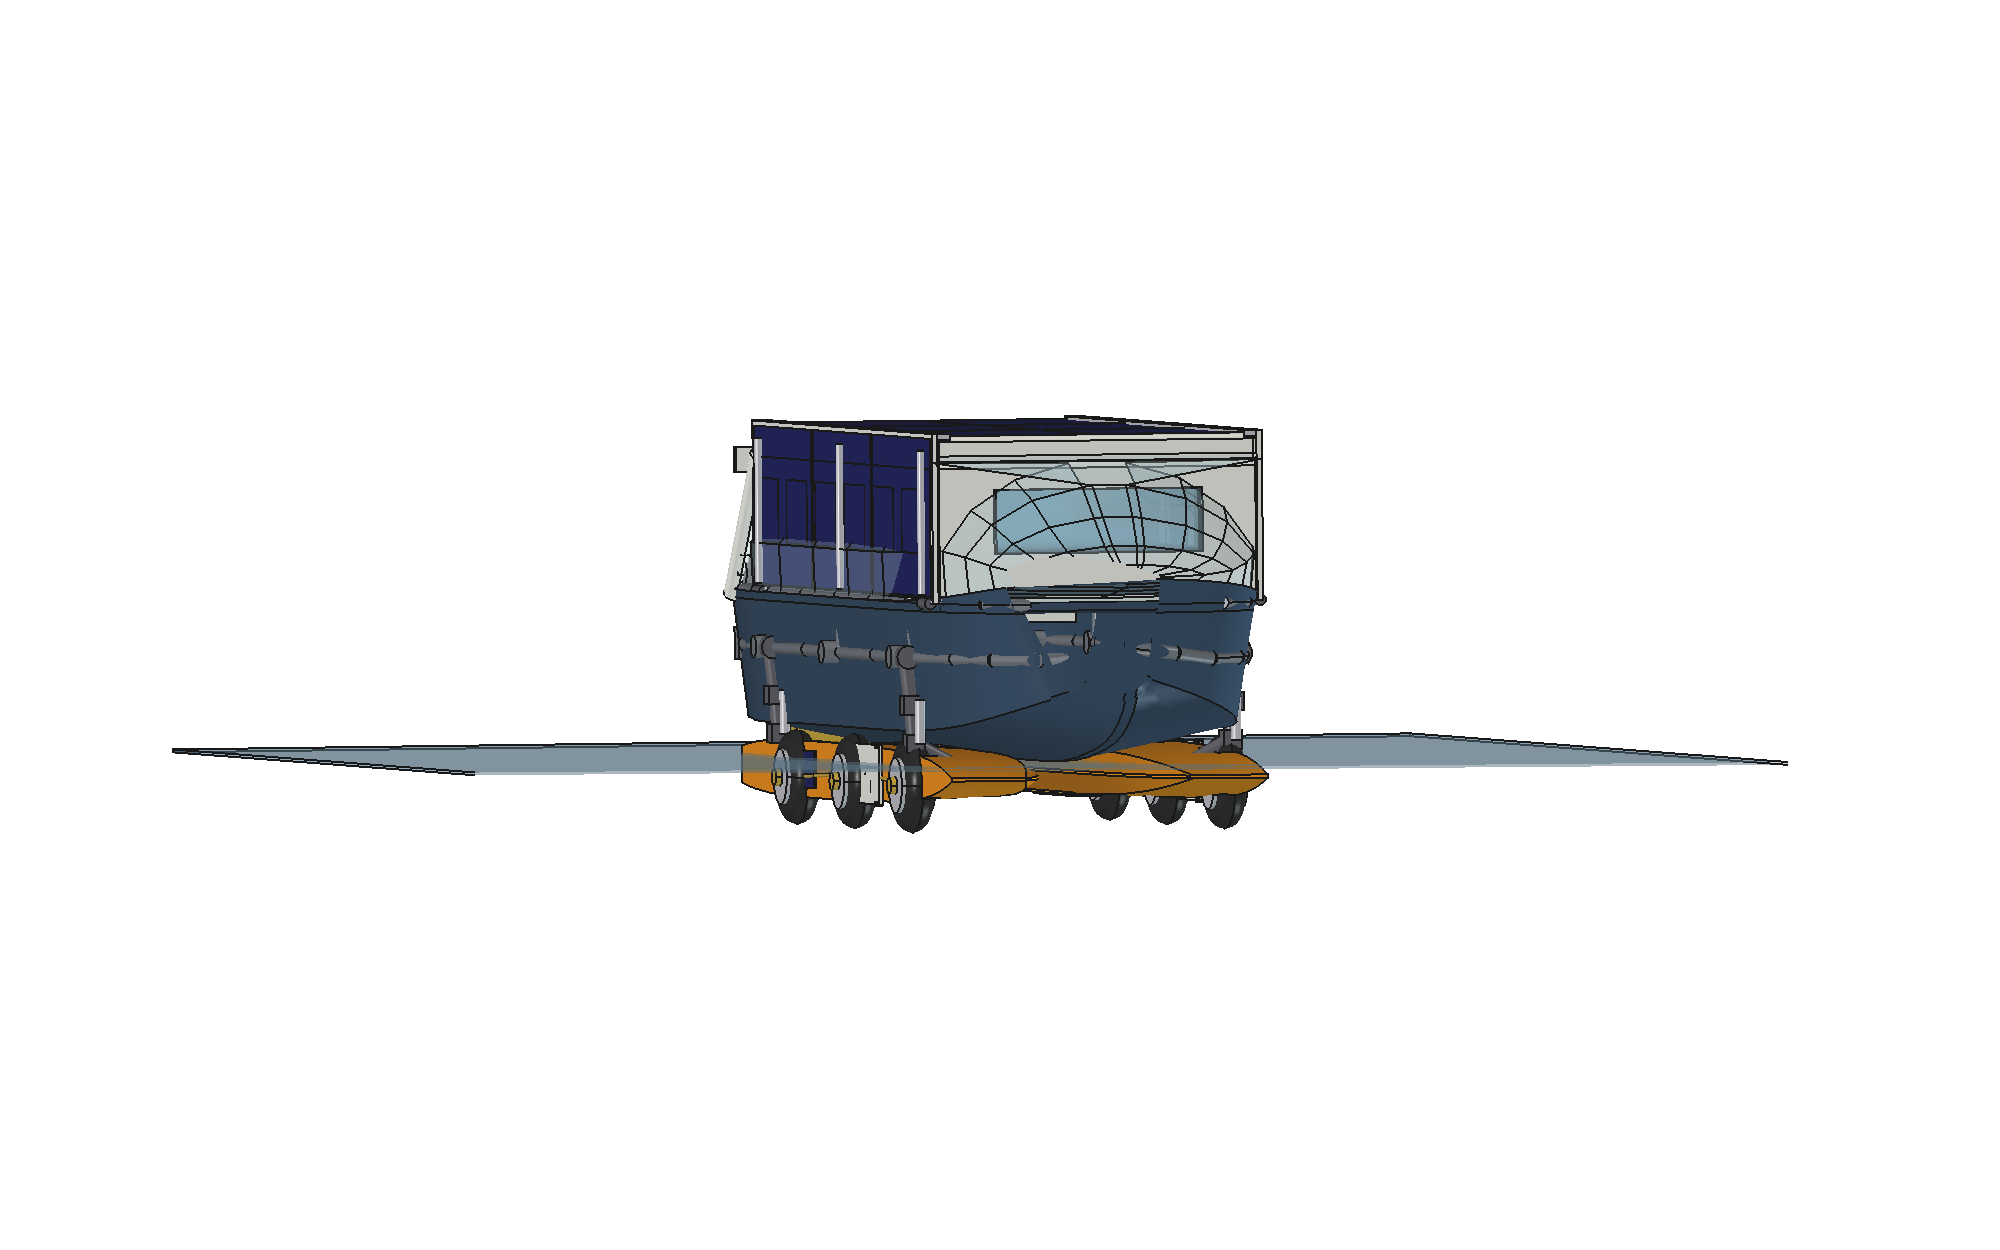
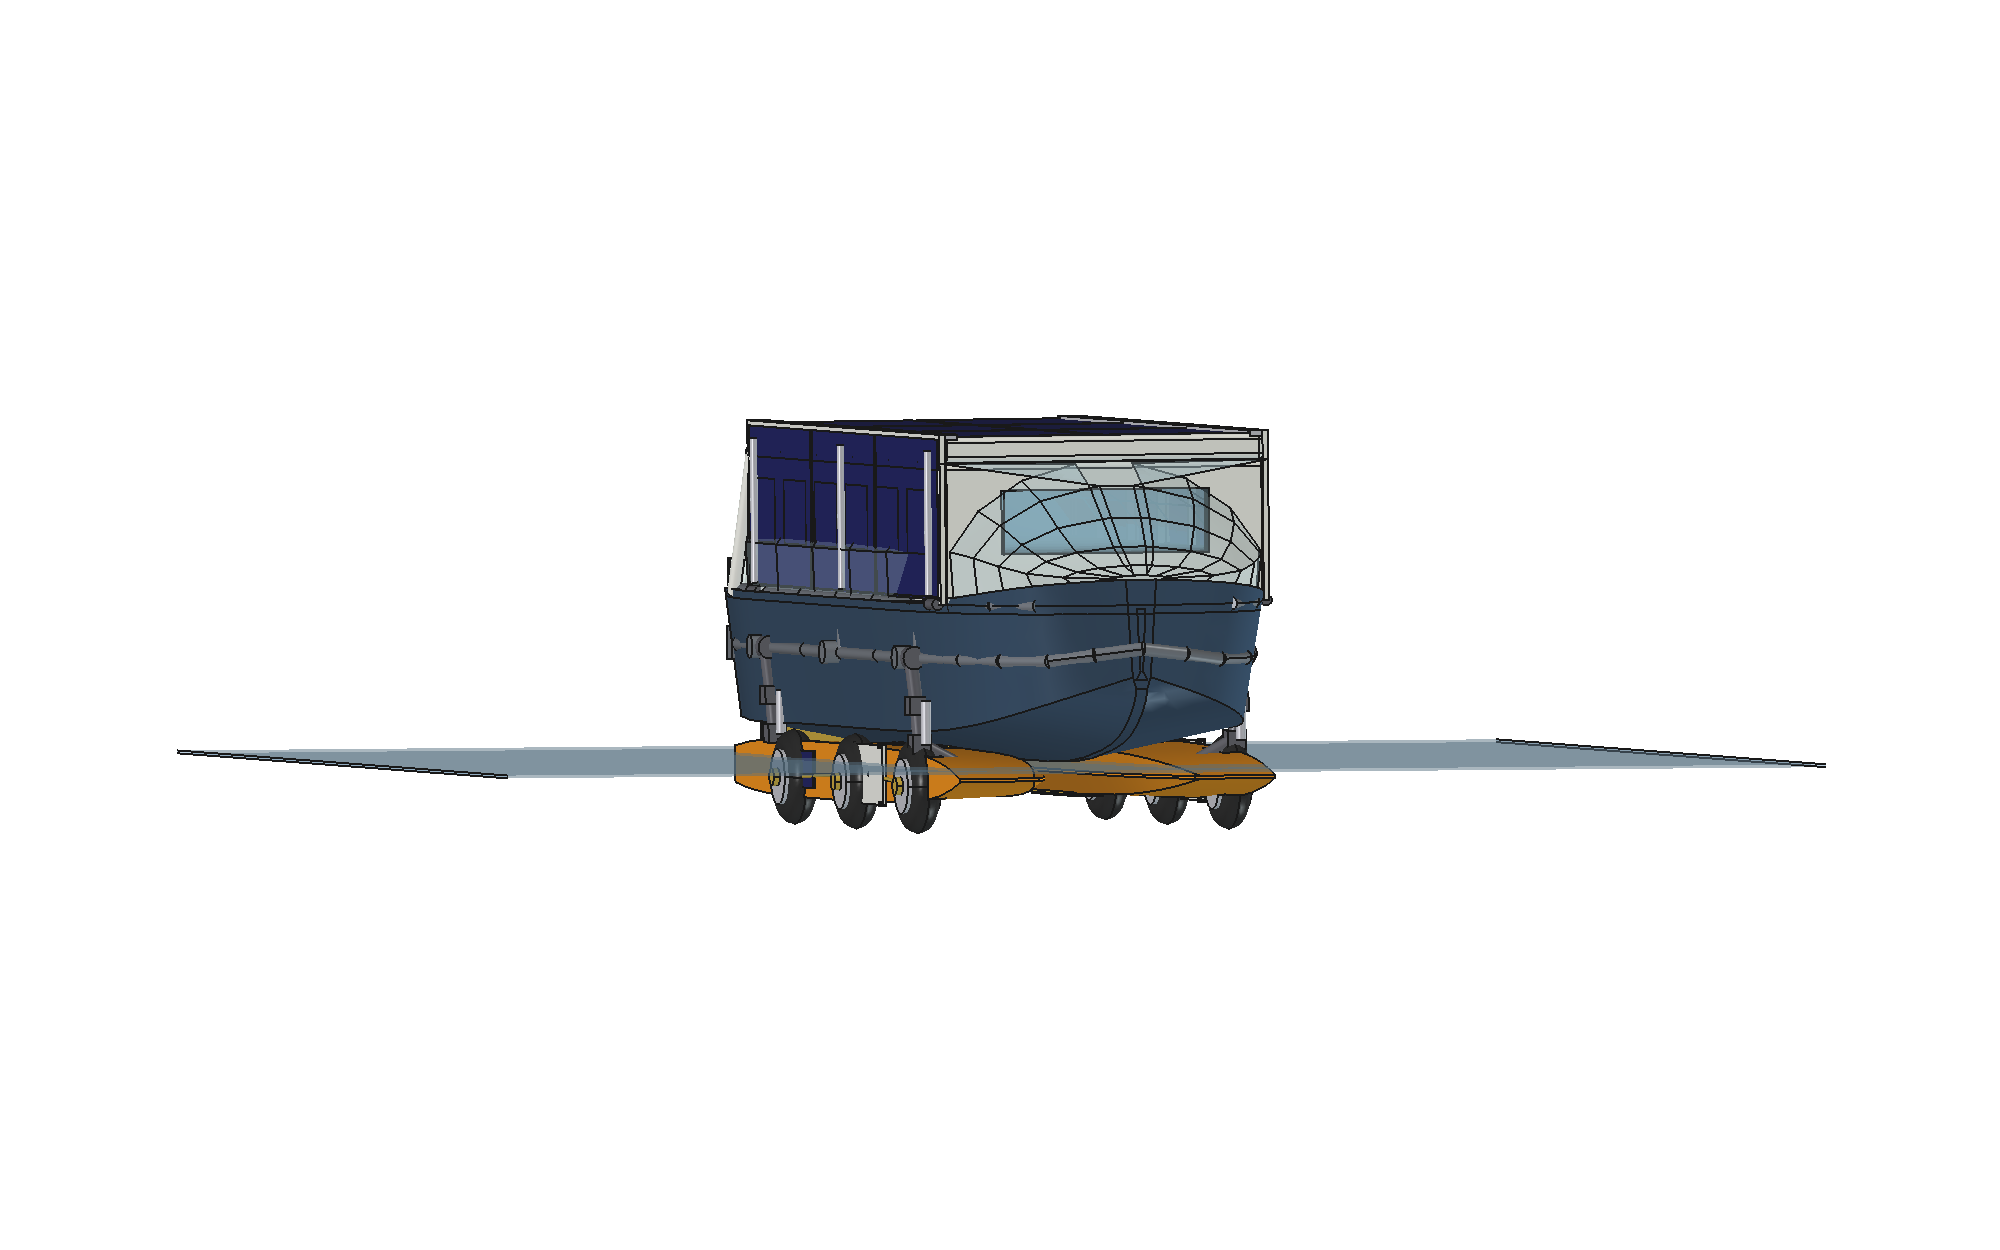
Aft entry reworked: deeper well, no posts, tighter ladder
1. Ladder steeper and against the wall: 67 deg in 420 mm of run
   instead of 54 deg in 720. Alternating treads (eight, swapping
   sides) make that angle walkable and free most of the aft deck.
2. Porch posts removed. The roof is cantilevered off the cabin wall on
   two diagonal tubes — nobody walks on it, so posts were only
   clutter.
3. Cockpit floor lowered 620 -> 400 mm. Clear height at the door goes
   1480 -> 1700 mm (no more ducking), and the bulwark round the well
   grows to 750 mm, which is the barrier that stops someone stepping
   off into the water. Still 140 mm above the waterline, so it
   gravity-drains. Door now 550-2100 on a 150 mm storm sill; asserts
   updated to enforce headroom, bulwark and freeboard.
4. Side benches added along the well: seats, and the step from the
   floor up to deck level and out through the boarding gates to the
   balconies.
5. Capture script now also shoots an aft view of every mode.

Changed region(s): [[0.093, 0.3432, 0.899, 0.6552]]

diff --git a/freecad/build_boat.py b/freecad/build_boat.py
@@ -545,25 +545,37 @@ def build_tow(pose):
 
 
 def build_aft_entry(rail_up=False):
-    """Companionway door, rain porch, stairs to the roof terrace, AC
-    ventilator box and cockpit lockers on the aft wall. The single
-    outboard handrail is raised only when the terrace is in use."""
+    """Deep self-draining cockpit with side benches, storm door with
+    1700 mm clear height, cantilevered rain porch (no deck posts —
+    diagonal tubes to the wall), alternating-tread ladder hard against
+    the aft wall, AC box and lockers. One folding outboard handrail."""
     parts, glass, dark = [], [], []
     x0, x1 = P.COCKPIT_X0, P.COCKPIT_X1
-    # --- porch roof (top flush with the terrace) + posts + flashing
-    porch = box(P.PORCH_X1 - P.PORCH_X0, 2 * P.PORCH_HW, P.PORCH_T,
-                (P.PORCH_X0, -P.PORCH_HW, P.CABIN_ROOF_Z - P.PORCH_T))
-    porch = porch.cut(box(P.STAIR_X1 - 150, P.STAIR_Y1 - P.STAIR_Y0 + 120,
-                          400, (200, P.STAIR_Y0 - 60,
-                                P.CABIN_ROOF_Z - P.PORCH_T - 100)))
-    parts.append(porch)
+
+    # --- side benches: seats, and the step from the well up to the deck
     for sgn in (-1, 1):
-        parts.append(rod((x0 + 60, sgn * P.PORCH_POST_Y, DECK_Z),
-                         (x0 + 60, sgn * P.PORCH_POST_Y,
-                          P.CABIN_ROOF_Z - P.PORCH_T), 90))
-    parts.append(box(P.CABIN_X0 - P.PORCH_X1 + 40, 2 * P.PORCH_HW, 60,
-                     (P.PORCH_X1 - 20, -P.PORCH_HW,
-                      P.CABIN_ROOF_Z - P.PORCH_T - 30)))     # flashing
+        parts.append(box(x1 - x0 - 120, P.BENCH_DEPTH, 60,
+                         (x0 + 60, sgn * P.COCKPIT_HW - (P.BENCH_DEPTH
+                                                         if sgn > 0 else 0),
+                          P.BENCH_Z - 60)))
+        parts.append(box(x1 - x0 - 120, 50, P.BENCH_Z - P.COCKPIT_FLOOR,
+                         (x0 + 60,
+                          sgn * (P.COCKPIT_HW - P.BENCH_DEPTH) - (50 if sgn > 0
+                                                                  else 0),
+                          P.COCKPIT_FLOOR)))
+
+    # --- cantilevered porch: no posts, two diagonal tubes to the wall
+    parts.append(box(P.PORCH_X1 - P.PORCH_X0, 2 * P.PORCH_HW, P.PORCH_T,
+                     (P.PORCH_X0, -P.PORCH_HW,
+                      P.CABIN_ROOF_Z - P.PORCH_T)))
+    for sgn in (-1, 1):
+        parts.append(rod((P.PORCH_X0 + 90, sgn * P.PORCH_STRUT_Y,
+                          P.CABIN_ROOF_Z - P.PORCH_T),
+                         (P.CABIN_X0 - 20, sgn * P.PORCH_STRUT_Y, 1430), 85))
+    parts.append(box(P.CABIN_X0 - P.PORCH_X1 + 60, 2 * P.PORCH_HW, 60,
+                     (P.PORCH_X1 - 30, -P.PORCH_HW,
+                      P.CABIN_ROOF_Z - P.PORCH_T - 30)))        # flashing
+
     # --- companionway: storm sill, frame, gasketed door leaf
     parts.append(box(180, 2 * P.DOOR_HW + 160, P.DOOR_Z0 - P.COCKPIT_FLOOR,
                      (x1 - 90, -P.DOOR_HW - 80, P.COCKPIT_FLOOR)))
@@ -572,49 +584,47 @@ def build_aft_entry(rail_up=False):
                          (x1 - 75, sgn * P.DOOR_HW - 35, P.DOOR_Z0)))
     parts.append(box(150, 2 * P.DOOR_HW + 70, 70,
                      (x1 - 75, -P.DOOR_HW - 35, P.DOOR_Z1 - 35)))
-    leaf = box(50, 2 * P.DOOR_HW - 40, P.DOOR_Z1 - P.DOOR_Z0 - 60,
-               (x1 - 25, -P.DOOR_HW + 20, P.DOOR_Z0 + 30))
-    dark.append(leaf)
-    glass.append(box(20, 2 * P.DOOR_HW - 300, 620,
-                     (x1 - 40, -P.DOOR_HW + 150, P.DOOR_Z0 + 520)))
-    for dz in (0, 620):                                       # dogs
+    dark.append(box(50, 2 * P.DOOR_HW - 40, P.DOOR_Z1 - P.DOOR_Z0 - 60,
+                    (x1 - 25, -P.DOOR_HW + 20, P.DOOR_Z0 + 30)))
+    glass.append(box(20, 2 * P.DOOR_HW - 300, 800,
+                     (x1 - 40, -P.DOOR_HW + 150, P.DOOR_Z0 + 620)))
+    for dz in (0, 700):                                          # dogs
         for sgn in (-1, 1):
             parts.append(Part.makeCylinder(
                 26, 90, Vector(x1 - 40, sgn * (P.DOOR_HW - 60),
-                               P.DOOR_Z0 + 300 + dz), Vector(-1, 0, 0)))
-    # --- ship's ladder to the roof terrace, port side of the door.
-    # A 2.15 m roof off a 1.15 m deck in 720 mm of run is a ladder, not
-    # a staircase — so it is detailed as one: stringers on edge, nosed
-    # treads let into them, handrails both sides (the inboard side
-    # overlooks the footwell) returning onto the terrace as grab rails.
+                               P.DOOR_Z0 + 320 + dz), Vector(-1, 0, 0)))
+
+    # --- alternating-tread ladder, hard against the aft wall (67 deg).
+    # Alternating treads are what make this angle walkable in 420 mm of
+    # run; a normal stair would need three times the floor space.
     n, sx0, sx1 = P.STAIR_STEPS, P.STAIR_X0, P.STAIR_X1
     z0, z1 = DECK_Z, P.CABIN_ROOF_Z
     rise, going = (z1 - z0) / n, (sx1 - sx0) / n
-    for sy in (P.STAIR_Y0 + 55, P.STAIR_Y1 - 55):          # stringers
-        parts.append(rod((sx0 - 60, sy, z0 - 40), (sx1 + 40, sy, z1 - 40),
-                         150))
-    for i in range(n):                                      # nosed treads
+    ymid = (P.STAIR_Y0 + P.STAIR_Y1) / 2
+    for sy in (P.STAIR_Y0 + 50, P.STAIR_Y1 - 50):                # stringers
+        parts.append(rod((sx0 - 70, sy, z0 - 30), (sx1 + 50, sy, z1 - 30),
+                         140))
+    for i in range(n):
         tz = z0 + (i + 1) * rise
         tx = sx0 + i * going
-        parts.append(box(going + 55, P.STAIR_Y1 - P.STAIR_Y0 - 60, 42,
-                         (tx, P.STAIR_Y0 + 30, tz - 42)))
-        parts.append(rod((tx, P.STAIR_Y0 + 30, tz - 21),
-                         (tx, P.STAIR_Y1 - 30, tz - 21), 42))
-    # ONE folding handrail, on the OUTBOARD side only. It is needed
-    # solely when the roof terrace is in use, so it folds flat onto the
-    # stringer the rest of the time and takes no space.
+        y_lo = P.STAIR_Y0 + 40 if i % 2 else ymid
+        parts.append(box(250, (P.STAIR_Y1 - P.STAIR_Y0) / 2 - 40, 40,
+                         (tx - 95, y_lo, tz - 40)))
+        parts.append(rod((tx - 95, y_lo, tz - 20),
+                         (tx - 95, y_lo + (P.STAIR_Y1 - P.STAIR_Y0) / 2 - 40,
+                          tz - 20), 40))
+
+    # ONE folding handrail, outboard side only: up only when the roof
+    # terrace is in use, folded flat on the stringer otherwise.
     ry = P.STAIR_Y0 + 45
     if rail_up:
         parts.append(rod((sx0, ry, z0), (sx0, ry, z0 + 950), 60))
         parts.append(rod((sx1, ry, z1), (sx1, ry, z1 + 950), 60))
         parts.append(rod((sx0, ry, z0 + 950), (sx1, ry, z1 + 950), 55))
-        parts.append(rod((sx1, ry, z1 + 950),
-                         (sx1 + 420, ry, z1 + 950), 55))      # terrace grab
-        parts.append(rod((sx1 + 420, ry, z1 + 950),
-                         (sx1 + 420, ry, z1), 55))
-    else:                                    # folded flat along the ladder
-        parts.append(rod((sx0 - 40, ry, z0 + 90), (sx1 + 30, ry, z1 + 90),
-                         55))
+        parts.append(rod((sx1, ry, z1 + 950), (sx1 + 420, ry, z1 + 950), 55))
+        parts.append(rod((sx1 + 420, ry, z1 + 950), (sx1 + 420, ry, z1), 55))
+    else:
+        parts.append(rod((sx0 - 40, ry, z0 + 90), (sx1 + 30, ry, z1 + 90), 55))
         for px in (sx0, sx1):
             pz = z0 + (px - sx0) / (sx1 - sx0) * (z1 - z0)
             parts.append(rod((px, ry, pz), (px, ry, pz + 110), 60))
@@ -622,19 +632,20 @@ def build_aft_entry(rail_up=False):
     # --- AC ventilator box (upper right) and lockers (rest of the wall)
     dark.append(box(P.AC_DEPTH, P.AC_Y1 - P.AC_Y0, P.AC_Z1 - P.AC_Z0,
                     (x1 - P.AC_DEPTH, P.AC_Y0, P.AC_Z0)))
-    for i in range(5):                                        # louvres
+    for i in range(5):
         parts.append(box(30, P.AC_Y1 - P.AC_Y0 - 80, 26,
                          (x1 - P.AC_DEPTH - 15, P.AC_Y0 + 40,
                           P.AC_Z0 + 50 + i * 58)))
     parts.append(box(P.LOCKER_DEPTH, P.LOCKER_Y1 - P.LOCKER_Y0,
                      P.LOCKER_Z1 - P.LOCKER_Z0,
                      (x1 - P.LOCKER_DEPTH, P.LOCKER_Y0, P.LOCKER_Z0)))
-    for i in range(2):                                        # locker doors
+    for i in range(2):
         dark.append(box(24, (P.LOCKER_Y1 - P.LOCKER_Y0) / 2 - 30,
                         P.LOCKER_Z1 - P.LOCKER_Z0 - 60,
                         (x1 - P.LOCKER_DEPTH - 20,
                          P.LOCKER_Y0 + 15 + i * (P.LOCKER_Y1 - P.LOCKER_Y0) / 2,
                          P.LOCKER_Z0 + 30)))
+
     # --- boarding steps out to the solar balconies, both sides
     for sgn in (-1, 1):
         parts.append(box(P.GATE_X1 - P.GATE_X0, 200, 50,

diff --git a/freecad/params.py b/freecad/params.py
@@ -236,24 +236,30 @@ COUPLING_H = 430              # target coupling height above ground
 # deck, and are entered through boarding gates in the sheer rail.
 COCKPIT_X0, COCKPIT_X1 = 150, 900
 COCKPIT_HW = 700              # footwell half width
-COCKPIT_FLOOR = 620           # 360 mm above WL -> drains overboard
+COCKPIT_FLOOR = 400           # deep well: 1700 mm clear at the door, no
+                              # ducking; 750 mm bulwark all round as the
+                              # fall barrier; still 140 mm above WL so it
+                              # gravity-drains through the transom
 COCKPIT_WALL = 40
+BENCH_Z = 850                 # side benches: seat, and the step up to deck
+BENCH_DEPTH = 400
 DOOR_HW = 350
-DOOR_Z0, DOOR_Z1 = 800, 2100  # sill 180 above the footwell floor
-PORCH_X0, PORCH_X1 = 150, 820 # stops short of the wall; flashing seals
-PORCH_HW = 1150
-PORCH_T = 180                 # top flush with the roof terrace
-PORCH_POST_Y = 640
-STAIR_Y0, STAIR_Y1 = -1200, -720   # port strip, to the LEFT of the door
-STAIR_X0, STAIR_X1 = 160, 880   # longest run the aft deck allows
-STAIR_STEPS = 7
+DOOR_Z0, DOOR_Z1 = 550, 2100  # 150 sill; 1700 mm clear above the floor
+PORCH_X0, PORCH_X1 = 120, 820 # cantilevered, flashing seals it to the wall
+PORCH_HW = 700                # narrow: covers the well, clears the ladder
+PORCH_T = 180
+PORCH_STRUT_Y = 620           # diagonal tubes to the wall — no deck posts
+# alternating-tread ladder, hard against the aft wall to save floor space
+STAIR_Y0, STAIR_Y1 = -1200, -740   # port strip, to the LEFT of the door
+STAIR_X0, STAIR_X1 = 460, 880
+STAIR_STEPS = 8
 GATE_X0, GATE_X1 = 950, 1450   # sheer-rail gap: step out to the balconies
 # aft wall fit-out, seen from the cockpit: AC upper right, lockers below
 AC_Y0, AC_Y1 = 600, 1140
 AC_Z0, AC_Z1 = 1760, 2100
 AC_DEPTH = 340
 LOCKER_Y0, LOCKER_Y1 = 430, 1140
-LOCKER_Z0, LOCKER_Z1 = 900, 1700
+LOCKER_Z0, LOCKER_Z1 = 950, 1720
 LOCKER_DEPTH = 300
 
 # ---- stern gear: electric winch + anchor ----
@@ -397,10 +403,13 @@ def checks(verbose=True):
     # aft entry
     stair_ang = math.degrees(math.atan2(CABIN_ROOF_Z - CABIN_BASE_Z,
                                         STAIR_X1 - STAIR_X0))
-    assert COCKPIT_FLOOR >= WL_Z + 250, \
+    assert COCKPIT_FLOOR >= WL_Z + 120, \
         f"cockpit floor only {COCKPIT_FLOOR - WL_Z} mm above WL"
-    assert DOOR_Z0 - COCKPIT_FLOOR >= 150, "storm sill too low"
-    assert stair_ang <= 65, f"stairs {stair_ang:.0f} deg too steep"
+    assert DOOR_Z0 - COCKPIT_FLOOR >= 140, "storm sill too low"
+    assert DOOR_Z1 - COCKPIT_FLOOR >= 1650, \
+        f"only {DOOR_Z1 - COCKPIT_FLOOR} mm clear at the door — you would duck"
+    assert CABIN_BASE_Z - COCKPIT_FLOOR >= 600, "bulwark too low to stop a fall"
+    assert stair_ang <= 70, f"ladder {stair_ang:.0f} deg too steep"
     assert PORCH_X1 < CABIN_X0, "porch must clear the cabin wall for flashing"
     # jack-up stance equilibrium
     jack_d = FLOAT_W * BOAT_MASS / (2 * reserve_kg)      # submerged depth
@@ -438,9 +447,9 @@ def checks(verbose=True):
               f"{sea_z - WL_Z:.0f} above WL")
         print(f"stern tow       coupling {cpl_h:.0f} mm high, overhang aft "
               f"{-cpl_x:.0f} mm, tongue load {tongue:+.0f} kg")
-        print(f"aft entry       cockpit floor {COCKPIT_FLOOR - WL_Z:.0f} above WL, "
-              f"door {DOOR_Z1 - DOOR_Z0} tall over a {DOOR_Z0 - COCKPIT_FLOOR} sill, "
-              f"stairs {stair_ang:.0f} deg")
+        print(f"aft entry       {DOOR_Z1 - COCKPIT_FLOOR} mm clear at the door, "
+              f"bulwark {CABIN_BASE_Z - COCKPIT_FLOOR}, "
+              f"floor {COCKPIT_FLOOR - WL_Z} above WL, ladder {stair_ang:.0f} deg")
         print(f"jack-up stance  floats {jack_frac * 100:.0f}% deep, "
               f"keel {-harbor_wl:.0f} mm above water (awash), "
               f"pontoon GM ~{gm_est:.1f} m")

diff --git a/freecad/capture.py b/freecad/capture.py
@@ -22,7 +22,7 @@ for mode in ("road", "launch", "harbor", "cruise", "anchor"):
     view = Gui.ActiveDocument.ActiveView
     planes = [doc.getObject(n) for n in PLANES if doc.getObject(n)]
     for vp, name in ((view.viewIsometric, "iso"), (view.viewFront, "side"),
-                     (view.viewRight, "bow")):
+                     (view.viewRight, "bow"), (view.viewLeft, "aft")):
         for p in planes:
             p.ViewObject.Visibility = False
         vp()

diff --git a/docs/aft_entry.md b/docs/aft_entry.md
@@ -6,14 +6,20 @@ Status: design study. Geometry in `freecad/params.py` (`COCKPIT_*`,
 
 ## 1. The constraint that shapes everything
 
-The cabin is only **1 000 mm tall above the deck** — the other 800 mm
-of the 1 800 mm headroom comes from the hull below. So a full-height
-door is not geometrically possible: a 1 900 mm door would need the
-cockpit floor 20 mm above the keel, i.e. underwater.
+The cabin is only **1 000 mm tall above the deck**, so the door height
+is bought entirely by how deep the footwell goes. Dropping the floor to
+**400 mm** buys three things at once:
 
-The answer is the one every barge and sailboat uses: a **companionway**
-— a sunken footwell, a storm sill, a header you duck under, then you
-stand up inside.
+| floor | freeboard | clear at the door | bulwark |
+|---|---|---|---|
+| 620 | 360 | 1 480 — you duck | 530 |
+| **400** | **140** | **1 700 — you walk in** | **750** |
+| 350 | 90 | 1 750 | 800 (won't gravity-drain) |
+
+400 mm is the sweet spot: **1 700 mm clear at the threshold** (no
+ducking), a **750 mm bulwark** all round the well that stops anyone
+stepping off into the water, and still 140 mm of freeboard so the
+cockpit gravity-drains through the transom.
 
 ```
                      porch roof (top flush with the terrace)
@@ -40,9 +46,10 @@ The living quarters stay sealed from every direction:
 - **Gasketed door** with four dogs (two per side), sealing against a
   continuous frame — the same detail used on wheelhouse doors.
 - **Porch roof** over the whole cockpit, so rain never falls on the
-  door while it is open, and the crew can stand dry while unlocking.
-  A flashing plate closes the 80 mm gap between porch and cabin wall
-  and sheds that water to the sides.
+  door while it is open. It is **cantilevered off the cabin wall on two
+  diagonal tubes** — no posts standing on the deck, because nobody
+  walks on this roof and posts would only clutter the entry. A flashing
+  plate seals it to the wall.
 - **The AC unit does not breach the envelope**: only its ventilator
   box sits outside, bolted to the aft wall through a gasketed flange.
 - **Lockers open outward**, into the cockpit — they are separate
@@ -61,11 +68,12 @@ Standing in the cockpit facing forward:
 
 ## 4. Stairs to the roof terrace
 
-720 mm of run for 1 000 mm of rise is a **ship's ladder (54°)**, not a
-staircase — the aft deck simply has no more length. It is detailed as
-a proper ladder rather than pretending otherwise: two stringers on
-edge, seven nosed treads let into them. The ladder rises through a
-cut-out in the porch roof and lands flush on the terrace.
+The ladder is pushed **hard against the aft wall** — 420 mm of run for
+1 000 mm of rise, i.e. **67°** — so it takes almost no deck. That angle
+is only walkable with **alternating treads** (the loft/engine-room
+stair): eight half-width treads that swap sides, so each foot gets a
+250 mm-deep step in half the going a normal stair would need. Two
+stringers on edge carry them.
 
 **One folding handrail, outboard only.** The rail is needed solely
 when the roof terrace is in use, so it does not stand permanently in
